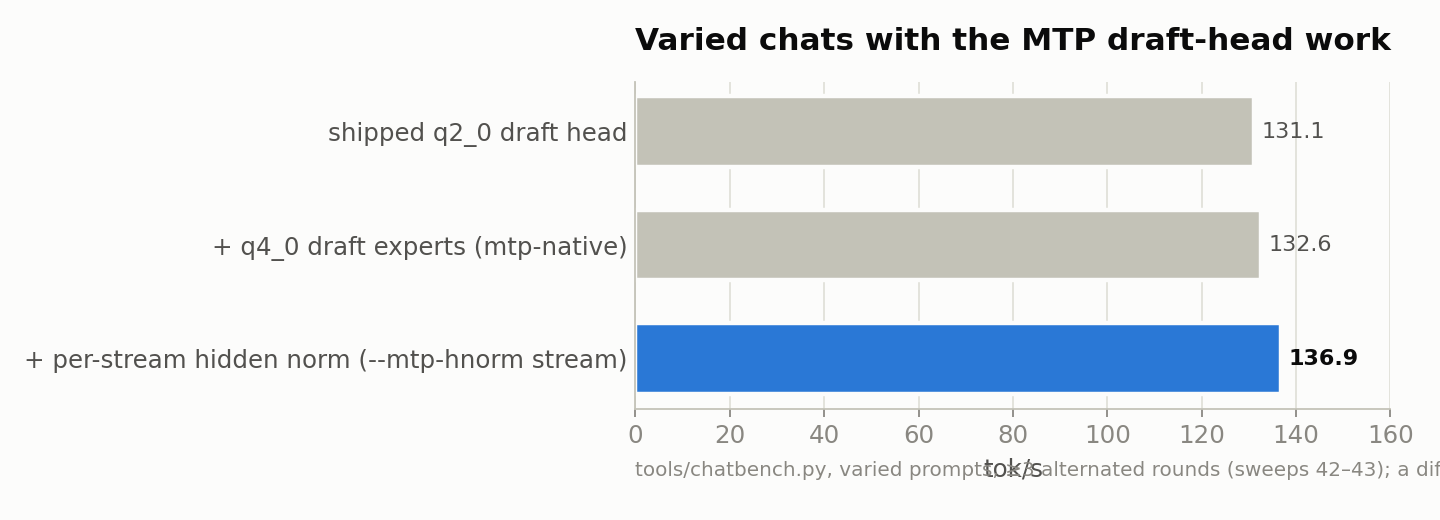
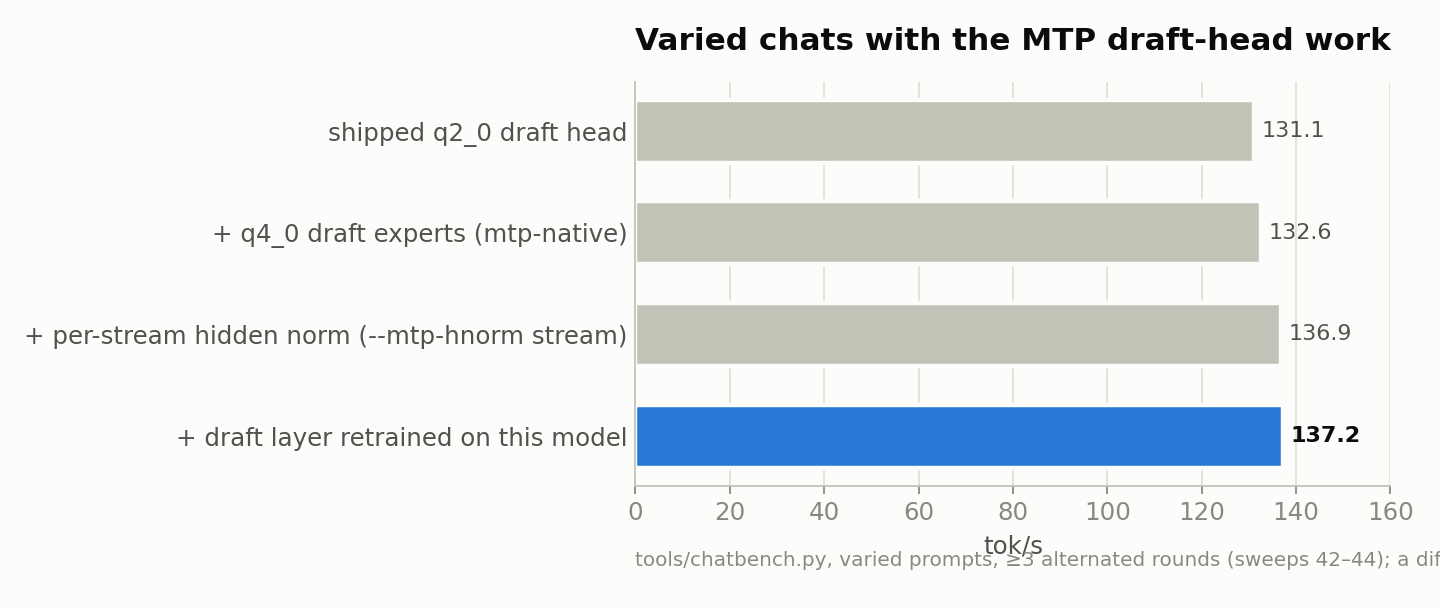
MTP draft layer retrained on this model (MTP=ft default once built): varied chats +0.7% (sweep44); chart + notes

diff --git a/tools/plots.py b/tools/plots.py
@@ -70,8 +70,9 @@ def chats():
     hbars("chats.png", "Varied chats with the MTP draft-head work", [
         ("shipped q2_0 draft head", 131.1, False, "131.1"),
         ("+ q4_0 draft experts (mtp-native)", 132.6, False, "132.6"),
-        ("+ per-stream hidden norm (--mtp-hnorm stream)", 136.9, True, "136.9"),
-    ], 160, "tools/chatbench.py, varied prompts, ≥3 alternated rounds (sweeps 42–43); a different bench from the 8K chart")
+        ("+ per-stream hidden norm (--mtp-hnorm stream)", 136.9, False, "136.9"),
+        ("+ draft layer retrained on this model", 137.2, True, "137.2"),
+    ], 160, "tools/chatbench.py, varied prompts, ≥3 alternated rounds (sweeps 42–44); a different bench from the 8K chart")
 
 
 def prompt():

diff --git a/README.md b/README.md
@@ -137,7 +137,7 @@ Defaults are the measured best within the card's limits. Override any of them pe
 | `WATTS` | 294 | power cap; the ceiling for this card |
 | `SCLK` | 2300 | core clock max (MHz); kept low for coil whine, see [perf mode](#perf-mode-not-default) |
 | `MCLK` | 1400 | VRAM clock (MHz); +2.5% over 1300 and stable, 1500 crashes the box |
-| `MTP` | 4 | draft head experts: 4 = q4_0 (built by `mtp4`), 2 = the shipped q2_0 |
+| `MTP` | ft | draft head: ft = retrained on this model (`data/mtp/rt-ft`, falls back to q4_0 if not built), 4 = q4_0 experts (built by `mtp4`), 2 = the shipped q2_0 |
 | `HNORM` | 1 | draft layer normalizes each hyper-connection stream on its own (`--mtp-hnorm stream`, +4.3%); 0 = the fork's pooled norm |
 | `VO` | -50 | core voltage offset (mV) |
 | `EPP` / `BOOST` | performance / 1 | the CPU computes the experts not cached in VRAM |
@@ -193,6 +193,7 @@ would need more power. Raw output: [`snapshot/2026-11-22/sweep19.txt`](snapshot/
 | MTP head experts at q4_0 / q8_0 instead of the shipped q2_0 ([`patches/mtp-native.patch`](patches/mtp-native.patch), `./strata-rdna3.sh mtp4`; 2026-11-23) | varied chats 131.1 → 132.6 (q4_0) / 130.0 (q8_0); 2-prompt bench mixed (8K +4%, 32K −3% for q4_0, the text changes); q8 keeps +4–8% more tokens but costs ~960 expert-cache slots | **q4_0 yes** (`MTP=2` = shipped) |
 | `--mtp-hnorm stream` (the draft layer's hidden-input RMS per hyper-connection stream, as llama.cpp's qwen4exp MTP graph, not one RMS over all four; 2026-11-23, `snapshot/2026-11-23/sweep42.txt`, `sweep43.txt`) | varied chats 131.2 → 136.9 (+4.3%, 4 rounds, 136.1–137.1 each) | **yes** (`HNORM=0` = pooled) |
 | English-only draft vocabulary (`--mtp-draft-vocab data/draft_vocab_en.bin`) / the full vocabulary (`STRATA_MTP_FULL_HEAD=1`) | +2.6% alone, +0.2% on top of hnorm / −3.9% | no (non-English drafts would lose) / no |
+| MTP draft layer retrained on this model's greedy answers (`tools/mtp_train.py`, 1,500 prompts, 2,000 steps; `logs/sweep44.txt`; 2026-11-23) | held-out draft top-1 75.5 → 81.9% (step 1); varied chats 136.3 → 137.2 (+0.7%, 136.1/136.7/136.2 vs 137.1/137.1/137.5) | **yes** (`MTP=ft`, default once built) |
 | `STRATA_HC_REQ8=1` | 114 / 107, prompts −5% | no |
 | `STRATA_COPY_HIP_PRIO=1`, `--host-core sibling` | −3% / none | no |
 | higher core clock (no SCLK cap) | ~+1 tok/s, coil whine | no |
@@ -231,12 +232,12 @@ Drafting is tuned out on this model: the MTP head keeps ~2.2 tokens a step and 3
 every setting that drafts more costs more verify time than it keeps on real chats. ~180 tok/s would need ~3.4 tokens
 a step at today's step time, or a much shorter step.
 
-In progress: retraining the MTP draft head on this IQ3_S model's own answers, so more drafts get accepted. Answers
-stay exact either way; the estimate is +5–25%, not certain. Pipeline (`tools/mtp_pipeline.sh <prompts> <max tokens>`):
+Retraining the MTP draft head on this IQ3_S model's own answers (`tools/mtp_pipeline.sh <prompts> <max tokens>`):
 `patches/mtp-dump.patch` (`STRATA_MTP_DUMP`) writes each prompt position's hidden state and next token,
 `tools/mtp_data.py` generates prompts and greedy answers and replays them through the dump, and `tools/mtp_train.py`
-(a PyTorch copy of the draft layer) trains a LoRA on the first draft step and exports the runtime format. First run:
-1,500 prompts, ~0.8M tokens. The result goes in the table above.
+(a PyTorch copy of the draft layer) fine-tunes its 89M dense parameters on draft steps 1 and 2 and exports the runtime
+format. 1,500 prompts (~0.8M tokens, a 90 GB dump), 2,000 steps (~20 min on the 7900 XTX). Held-out draft accuracy
+rose a lot (steps 1/2/3: 75.5/69.1/66.2% → 81.9/76.2/72.3%), but real chats gained only +0.7%; see the table above.
 
 Next: the GPU side of a step ([profile](#where-a-generation-steps-time-goes)), mainly fewer graph nodes (~3 ms of a
 ~20 ms step). Left out on purpose: higher clocks or

diff --git a/docs/kernel-work-notes.md b/docs/kernel-work-notes.md
@@ -267,3 +267,11 @@ First step: per-kernel timing (rocprofv3 --kernel-trace on a short bench) to see
 - Retrain setup: patches/mtp-dump.patch (STRATA_MTP_DUMP: serve prompt-path residual rows + tokens), tools/mtp_data.py
   (prompts / greedy answers / replay), tools/mtp_pipeline.sh, tools/mtp_train.py (torch reference of the draft layer,
   step-1 + chain-2 distillation, export to the rt format). Torch 2.9.1+rocm6.4 in ~/work/rdna3/train-venv.
+- 2026-11-23 MTP retrain result (sweep44): mtp_train.py train --chain 2, 2,000 steps, lr 2e-5, draft-vocab mask
+  (labels outside zh60k ignored; with them in, loss was inf). Held-out top-1 per draft step 75.5/69.1/66.2 ->
+  81.9/76.2/72.3% (step 1000: 81.1, 1500: 81.8, saturating). Varied chats base 136.1/136.7/136.2 vs ft
+  137.1/137.1/137.5 = +0.7%, every round. Offline gain mostly doesn't reach real chats: chatbench prompts differ from
+  the generated training prompts, and spec-min-p 0.5 gates on the draft's confidence. Kept (MTP=ft default once built).
+  Next: spec-min-p / spec with the ft head (sweep45).
+- Box ssh: a remote command whose text contains "strata"/"chatbench" or a pkill pattern gets killed by
+  strata-rdna3.sh stop/serve or pkill -f (exit 255). Launch via setsid nohup bash <script>; bracket patterns in pgrep.
